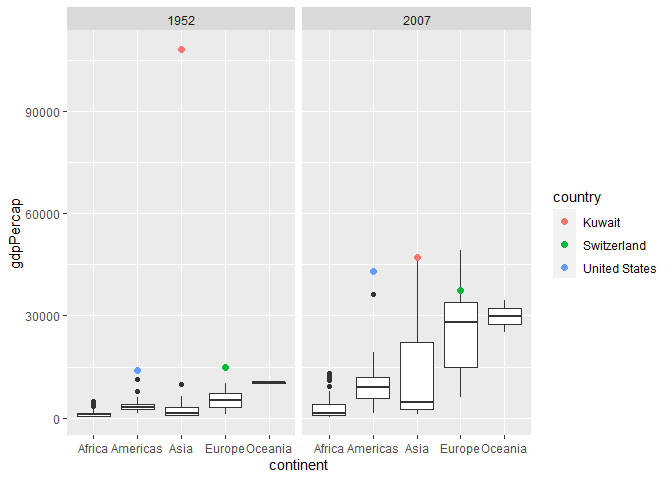
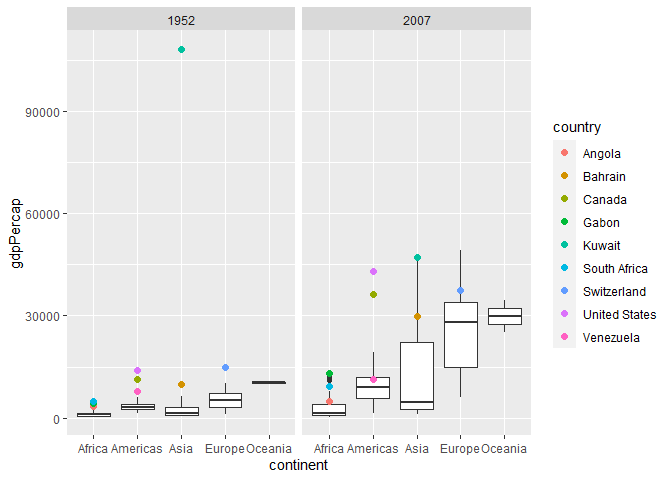
Modify outlier method

diff --git a/challenges/c04-gapminder-assignment.md b/challenges/c04-gapminder-assignment.md
@@ -140,8 +140,7 @@ glimpse(gapminder)
 
 **Observations**:
 
-- Write all variable names here country, continent, year, lifeExp, pop,
-  gdpPercap
+- Variables: country, continent, year, lifeExp, pop, gdpPercap
 
 ### **q1** Determine the most and least recent years in the `gapminder` dataset.
 
@@ -238,24 +237,41 @@ gapminder %>%
 ``` r
 ## TASK: Identify the outliers from q2
 outliers <- gapminder %>% 
+  group_by(continent) %>% 
+  filter(year == year_min) %>% 
+  mutate(
+    q1 = quantile(gdpPercap, probs = 0.25),
+    q3 = quantile(gdpPercap, probs = 0.75),
+    iqr = IQR(gdpPercap)
+  ) %>% 
+  group_by(country) %>% 
   filter(
-    year == year_min,
-    gdpPercap > 12500
+    (gdpPercap > q3 + 1.5 * iqr) | (gdpPercap < q1 - 1.5 * iqr)
   )
+
+
 outliers
 ```
 
-    ## # A tibble: 3 × 6
-    ##   country       continent  year lifeExp       pop gdpPercap
-    ##   <fct>         <fct>     <int>   <dbl>     <int>     <dbl>
-    ## 1 Kuwait        Asia       1952    55.6    160000   108382.
-    ## 2 Switzerland   Europe     1952    69.6   4815000    14734.
-    ## 3 United States Americas   1952    68.4 157553000    13990.
+    ## # A tibble: 9 × 9
+    ## # Groups:   country [9]
+    ##   country       continent  year lifeExp       pop gdpPercap    q1    q3   iqr
+    ##   <fct>         <fct>     <int>   <dbl>     <int>     <dbl> <dbl> <dbl> <dbl>
+    ## 1 Angola        Africa     1952    30.0   4232095     3521.  535. 1455.  920.
+    ## 2 Bahrain       Asia       1952    50.9    120447     9867.  750. 3035. 2286.
+    ## 3 Canada        Americas   1952    68.8  14785584    11367. 2428. 3940. 1512.
+    ## 4 Gabon         Africa     1952    37.0    420702     4293.  535. 1455.  920.
+    ## 5 Kuwait        Asia       1952    55.6    160000   108382.  750. 3035. 2286.
+    ## 6 South Africa  Africa     1952    45.0  14264935     4725.  535. 1455.  920.
+    ## 7 Switzerland   Europe     1952    69.6   4815000    14734. 3241. 7237. 3996.
+    ## 8 United States Americas   1952    68.4 157553000    13990. 2428. 3940. 1512.
+    ## 9 Venezuela     Americas   1952    55.1   5439568     7690. 2428. 3940. 1512.
 
 **Observations**:
 
 - Identify the outlier countries from q2
-  - Kuwait, Switzerland, United States
+  - Angola, Bahrain, Canada, Gabon, Kuwait, South Africa, Switzerland,
+    United States, Venezuela
 
 *Hint*: For the next task, it’s helpful to know a ggplot trick we’ll
 learn in an upcoming exercise: You can use the `data` argument inside
@@ -291,7 +307,7 @@ gapminder %>%
   ggplot(aes(continent, gdpPercap)) +
   geom_boxplot() +
   geom_point(
-    data = . %>% filter(country %in% c("United States", "Kuwait", "Switzerland")),
+    data = . %>% filter(country %in% c("Angola", "Bahrain", "Canada", "Gabon", "Kuwait", "South Africa", "Switzerland", "United States", "Venezuela")),
     mapping = aes(color = country),
     size = 2
   ) +
@@ -302,21 +318,21 @@ gapminder %>%
 
 **Observations**:
 
-- Both the United States and Switzerland experienced a growth in GDP per
-  capita from 1952 to 2007. Conversely, Kuwait experienced a much
-  greater decrease in GDP per capita from 1952 to 2007. However, while
-  Kuwait may have experienced a large decrease in GDP per capita, it
-  still had a higehr GDP per capita than both Switzerland and the United
-  States, even after their relatively smaller increases in GDP per
-  capita.
-- Additionally, both Kuwait and Switzerland changed from being outliers
-  to not in 2007, whilst the United States remained an outlier and moved
-  farther away from the majority of the data in the Americas.
 - Overall, the interquartile range for GDP per capita in each continent
   increased, even if the median tended to stay around the same. That
   being said, the median tended to increase from 1952 to 2007, and the
   relative positions of each continent remained the same, with Oceania
   having the highest GDP per capita, and Africa having the least.
+- In terms of outliers, Angola, Venezuela, Bahrain, Kuwait, and
+  Switzerland switched from being outliers in 1957 to not in 2007. With
+  the exception of Venezuela, each of these nations still had GDP per
+  capita values greater than the third quartile.
+- Regrading the economic growth and decline of the outliers, the United
+  States and Canada experienced the largest increase in GDP per capita
+  between 1952 and 2007, whilst Kuwait experienced the largest decrease.
+  That being said, despite the large decrease in Kuwait’s GDP per
+  capita, it still had the highest GDP per capita amongst the outliers
+  (excluding the countries in Europe not classed as outliers).
 
 # Your Own EDA
 
